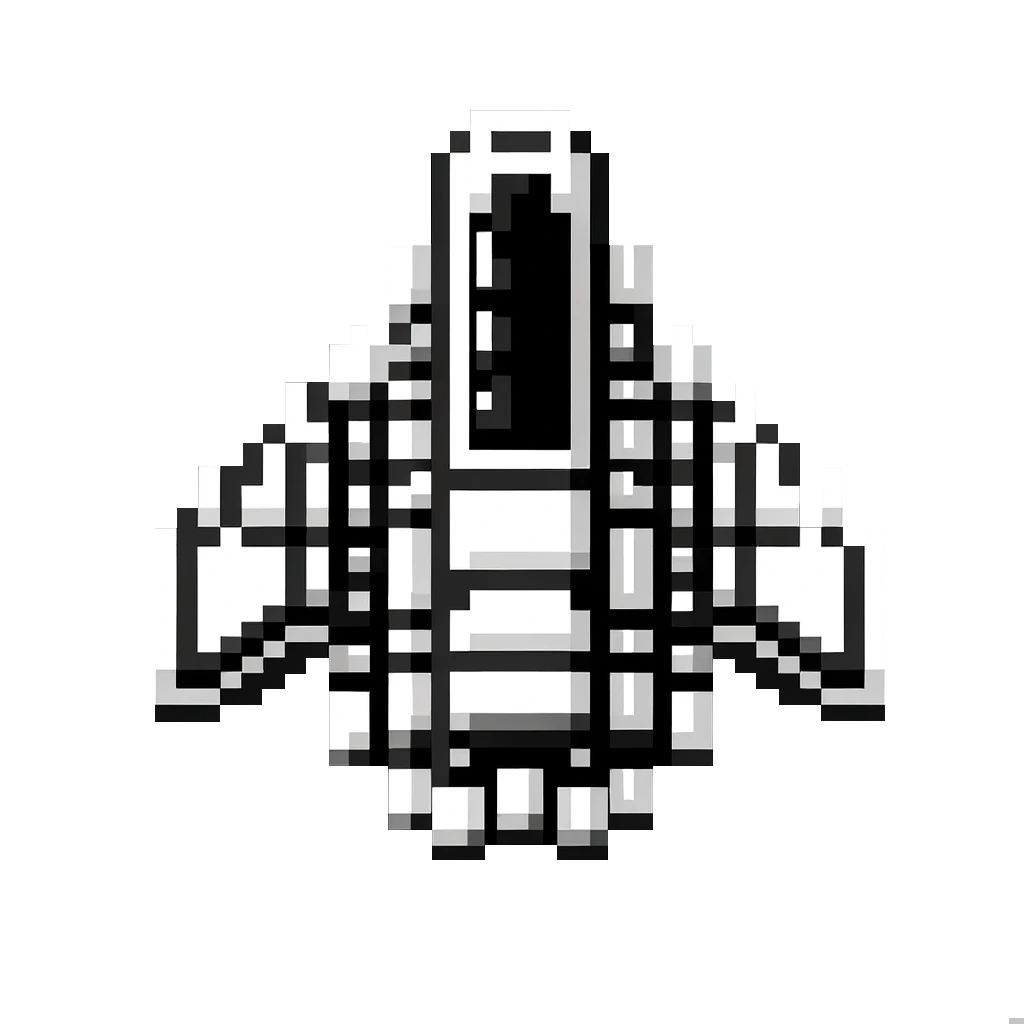
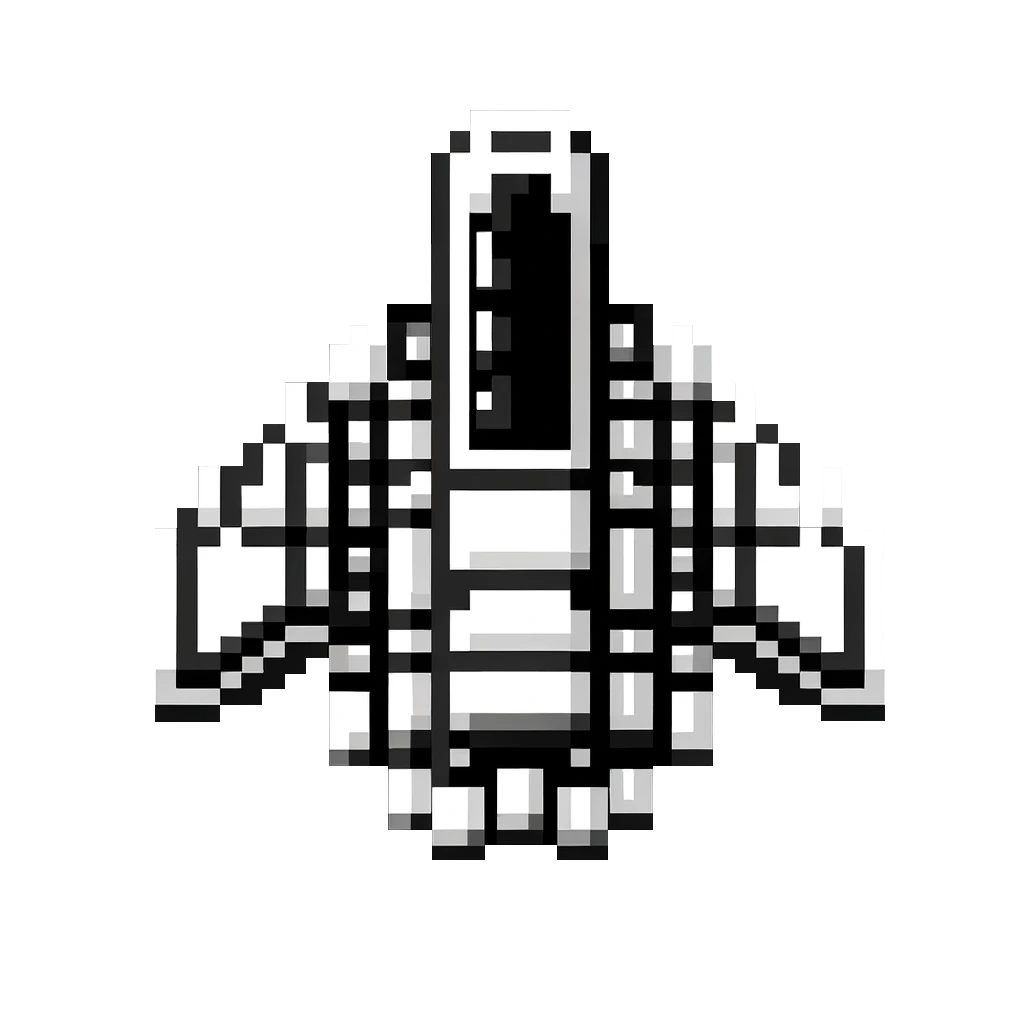
added comments and updated image

Changed region(s): [[0.375, 0.2188, 0.4375, 0.375], [0.5938, 0.2188, 0.6562, 0.3125]]

diff --git a/src/main.cpp b/src/main.cpp
@@ -2,7 +2,6 @@
 #include "threepp/threepp.hpp"
 #include "spaceship_class.hpp"
 #include "spaceship_physics.hpp"
-#include <chrono>
 using namespace threepp;
 
 int main() {
@@ -33,7 +32,7 @@ int main() {
 
     canvas.onWindowResize([&](WindowSize size) {
 
-        //Scales the camera according to the window width
+        //Scales the camera according to the window width/height
         camera->left = -size.width / 2;
         camera->right = size.width / 2;
         camera->top = size.height / 2;

diff --git a/include/spaceship_physics.hpp b/include/spaceship_physics.hpp
@@ -13,6 +13,7 @@ public:
     SpaceshipPhysics(SpaceshipClass& spaceship, float rotation_speed, float thrust_power)
         : PhysicsEngine(spaceship, Vector2(0, 1), Vector2(0, 0), rotation_speed, thrust_power) {}
 
+    //controls the actual spaceship
     void perform_spaceship_movement(SpaceshipController::Action action, float dt) {
         switch (action) {
             case SpaceshipController::Action::RotateLeft:
